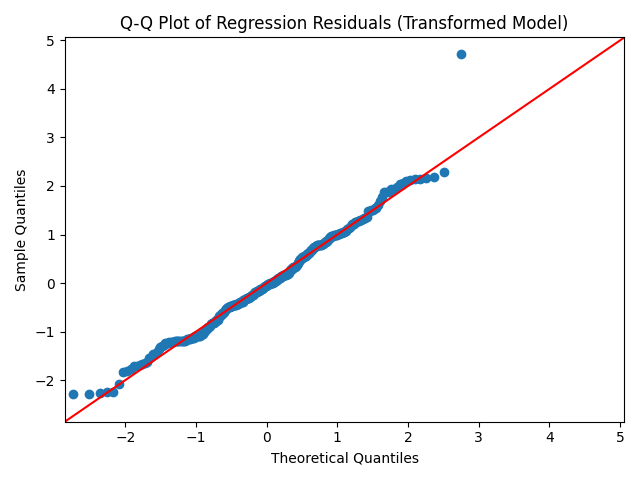
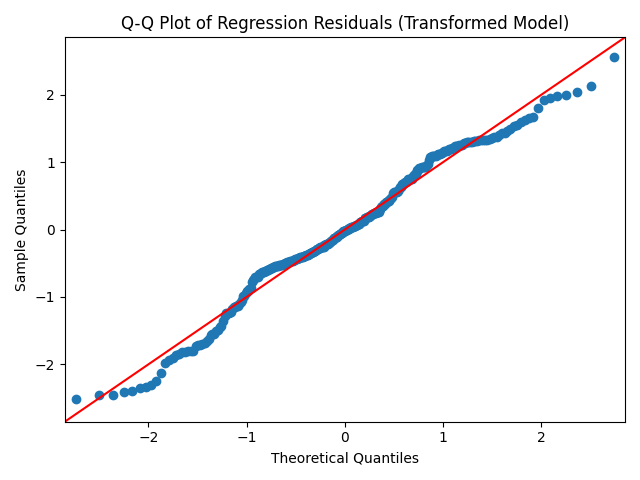
fix plots and remove unexplained plots

diff --git a/doc/contents/kapitel/04_analyse.tex b/doc/contents/kapitel/04_analyse.tex
@@ -37,13 +37,6 @@ Das finale Modell erreicht ein bereinigtes Bestimmtheitsmaß ($Adj. R^{2}$) von 
 
 \begin{figure}[htpb!]
     \centering
-    \includegraphics[width=1.1\textwidth]{contents/figures/regression_residuals.png}
-    \caption{regression-residuals}
-    \label{fig:regression2}
-\end{figure}
-
-\begin{figure}[htpb!]
-    \centering
     \includegraphics[width=1.1\textwidth]{contents/figures/transformed_model_qqplot.png}
     \caption{regression-qqplot2}
     \label{fig:regression3}